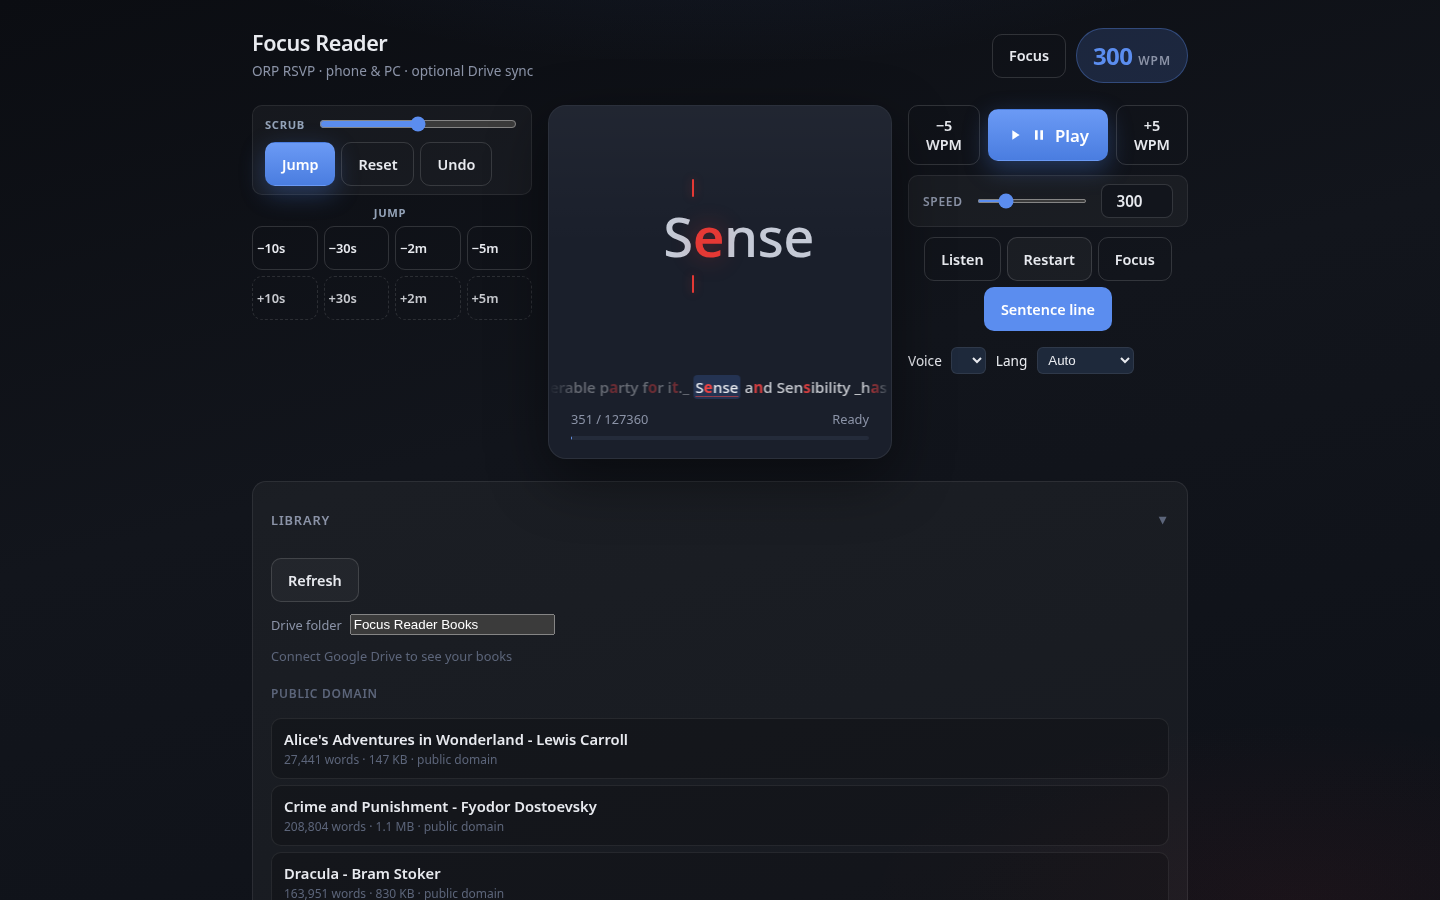
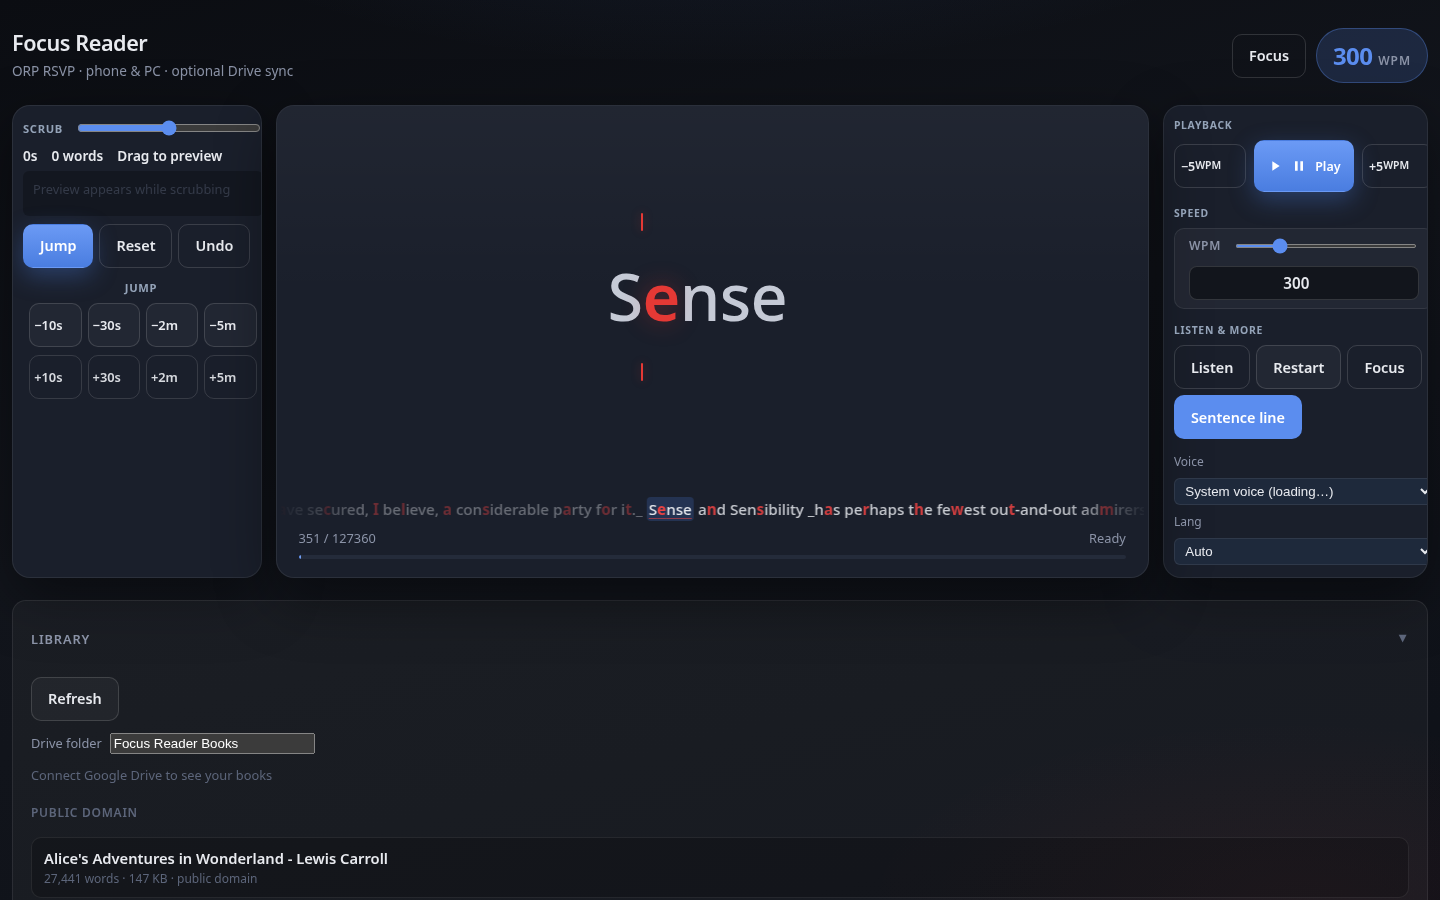
Polish strip edge fades; publish layout screenshots
Stronger left/right fade overlays on the sentence strip; SW cache v9;
overwrite live layout screenshots (desktop/phone/landscape/1024).

diff --git a/styles.css b/styles.css
@@ -1709,9 +1709,27 @@ code {
   margin: 0;
   padding: 0 4px;
   flex: 0 0 auto;
-  mask-image: linear-gradient(90deg, transparent 0%, #000 10%, #000 90%, transparent 100%);
-  -webkit-mask-image: linear-gradient(90deg, transparent 0%, #000 10%, #000 90%, transparent 100%);
+  mask-image: linear-gradient(90deg, transparent 0%, #000 12%, #000 88%, transparent 100%);
+  -webkit-mask-image: linear-gradient(90deg, transparent 0%, #000 12%, #000 88%, transparent 100%);
   contain: paint;
+}
+.sentence-strip-wrap::before,
+.sentence-strip-wrap::after {
+  content: "";
+  position: absolute;
+  top: 0;
+  bottom: 0;
+  width: 28px;
+  z-index: 2;
+  pointer-events: none;
+}
+.sentence-strip-wrap::before {
+  left: 0;
+  background: linear-gradient(90deg, var(--bg-2), transparent);
+}
+.sentence-strip-wrap::after {
+  right: 0;
+  background: linear-gradient(270deg, var(--bg-2), transparent);
 }
 .sentence-strip-wrap.is-hidden {
   display: none;

diff --git a/service-worker.js b/service-worker.js
@@ -1,5 +1,5 @@
 /* Focus Reader service worker — app-shell cache-first; Google APIs network-only */
-var CACHE = 'focus-reader-v8';
+var CACHE = 'focus-reader-v9';
 var PRECACHE = [
   './',
   './index.html',
